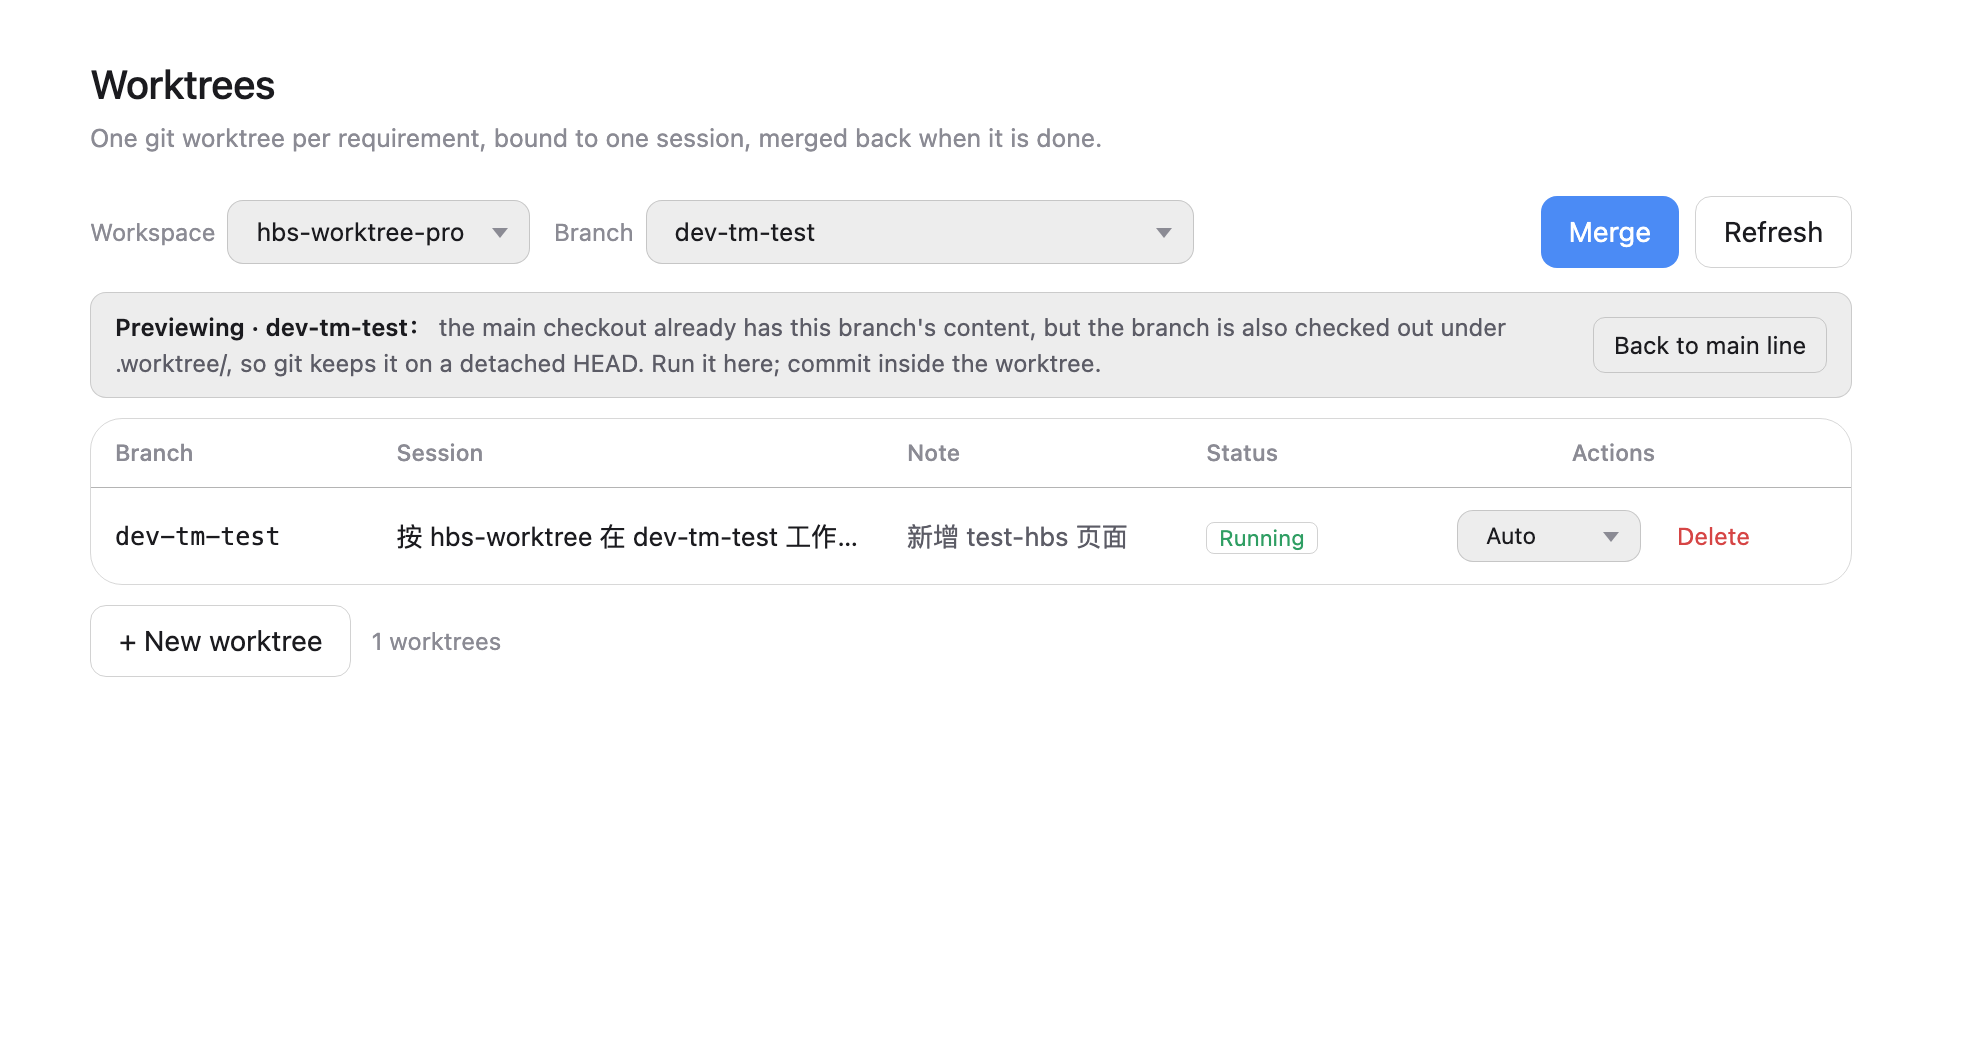
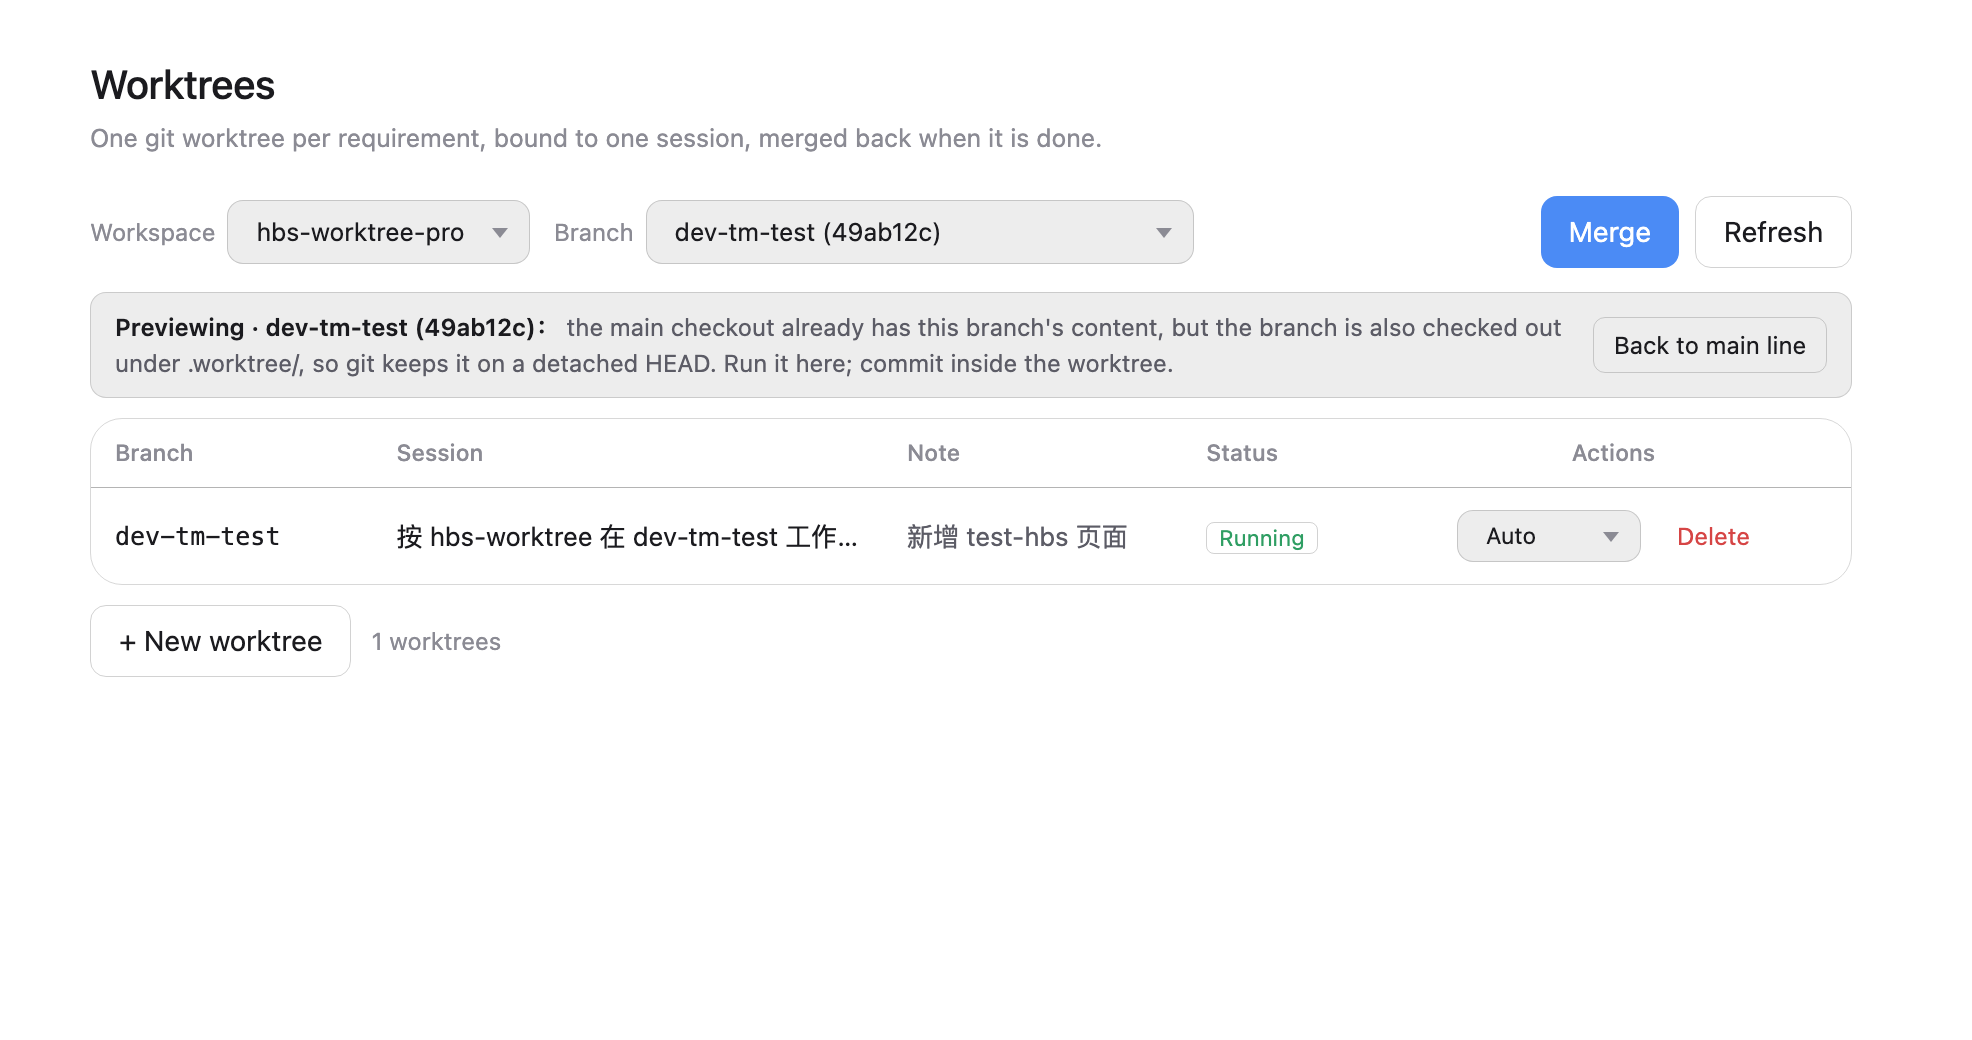
feat: 分支下拉与预览提示带上当前检出提交的短 SHA

Changed region(s): [[0.0619, 0.3077, 0.8043, 0.3692], [0.4021, 0.2154, 0.464, 0.2462]]

diff --git a/client.js b/client.js
@@ -963,6 +963,16 @@ window.__ModuleLoader__.load({
       const everyBranch = base === '' ? [] : [base].concat(worktrees.map((row) => String(row.branch || '')).filter((branch) => branch !== '' && branch !== base));
       const branchOptions = base === '' ? [] : [{ value: base, label: base + ' · ' + t('mainLine') }]
         .concat(worktrees.map((row) => String(row.branch || '')).filter((branch) => branch !== '' && branch !== base).map((branch) => ({ value: branch, label: branch })));
+      // The checkout is what the picker claims to show, so say which commit that is:
+      // `v-3.58-test (49ab12c)`. Other branches stay bare — their tip is not what is
+      // checked out, and mixing the two would be a lie.
+      const headShort = repo !== null && typeof repo.head === 'string' ? repo.head : '';
+      const markedBranchOptions = headShort === ''
+        ? branchOptions
+        : branchOptions.map((option) => (option.value === branchChoice
+          ? { value: option.value, label: option.label + ' (' + headShort + ')' }
+          : option));
+
       const workspaceOptions = workspaces.map((item) => ({
         value: String(item.workspaceId || ''),
         label: String(item.title || '') || baseName(item.path) || String(item.workspaceId || ''),
@@ -1072,7 +1082,7 @@ window.__ModuleLoader__.load({
             wrapperStyle: { flex: '1 1 auto' },
             controlStyle: fieldSelectStyle,
             onChange: (event) => void onPickBranch(event.target.value),
-            options: branchOptions,
+            options: markedBranchOptions,
           })) : null,
         h('span', { style: toolbarActionsStyle },
           worktrees.length > 0 && !nonGit ? h('button', Object.assign({
@@ -1090,7 +1100,8 @@ window.__ModuleLoader__.load({
       if (previewing) {
         banners.push(h('div', { key: 'preview', style: bannerStyle },
           h('p', { style: Object.assign({}, bannerText, { color: TOKEN.labelSecondary }) },
-            h('strong', { style: { fontWeight: 600, color: TOKEN.labelPrimary } }, t('previewing') + ' · ' + preview + '：'),
+            h('strong', { style: { fontWeight: 600, color: TOKEN.labelPrimary } },
+              t('previewing') + ' · ' + preview + (repo !== null && typeof repo.head === 'string' ? ' (' + repo.head + ')' : '') + '：'),
             ' ' + t('previewHint')),
           h('button', Object.assign({
             type: 'button',

diff --git a/lib/engine.js b/lib/engine.js
@@ -264,6 +264,9 @@ async function repoInfo(_args, options) {
     base,
     preview: state.preview ?? null,
     currentBranch: detached ? null : currentBranch,
+    // The commit the main checkout actually sits on: a previewed worktree branch is
+    // detached, so its name alone does not say which commit you are looking at.
+    head: await git.shortSha(top, 'HEAD'),
     detached,
     dirty: await git.isDirty(top),
   };

diff --git a/README.md b/README.md
@@ -91,7 +91,7 @@ npm pack          # produces hbs-worktree-<version>.tgz, install that with the p
 3. **Work in that session** — the agent edits `.worktree/dev-a` only; the main code is untouched and the status column shows whether the session is running.
    When the requirement is done the session **commits and pushes by default**: it is a separate branch, so committing cannot touch the main code, while *not* committing means a preview is refused (dirty worktree) and the work is invisible. Switch the actions dropdown to "Manual" to opt out.
 4. **Preview** — switch the branch picker to `dev-a`.
-   *Effect: the main checkout shows that branch, so a dev server runs it; "back to main line" restores the base branch.*
+   *Effect: the main checkout shows that branch, so a dev server runs it; "back to main line" restores the base branch. The picker and the banner append the checked-out commit's short SHA (`dev-a (49ab12c)`), so you know exactly which commit you are looking at.*
 5. **Merge** — pick source and target (the base branch by default).
    *Effect: plain merge; conflicts abort and list files, leaving no half-merged tree.*
 6. **Delete** — with confirmation.

diff --git a/CHANGELOG.md b/CHANGELOG.md
@@ -1,5 +1,13 @@
 # Changelog
 
+## 1.2.2 — 2026-11-11
+
+- The branch picker now names the commit it is on: `dev-tm-test (49ab12c)`. A previewed
+  worktree branch leaves the main checkout detached, and the branch name alone did not say
+  which commit was being looked at. The preview banner carries the same short SHA.
+- `repo` returns `head` (the short SHA the main checkout sits on); only the selected option
+  gets the suffix, so other branches never pretend to be at that commit.
+
 ## 1.2.1 — 2026-11-11
 
 - The full page now follows the harness's own page pattern (`TaskManagerPage`): a flex column
